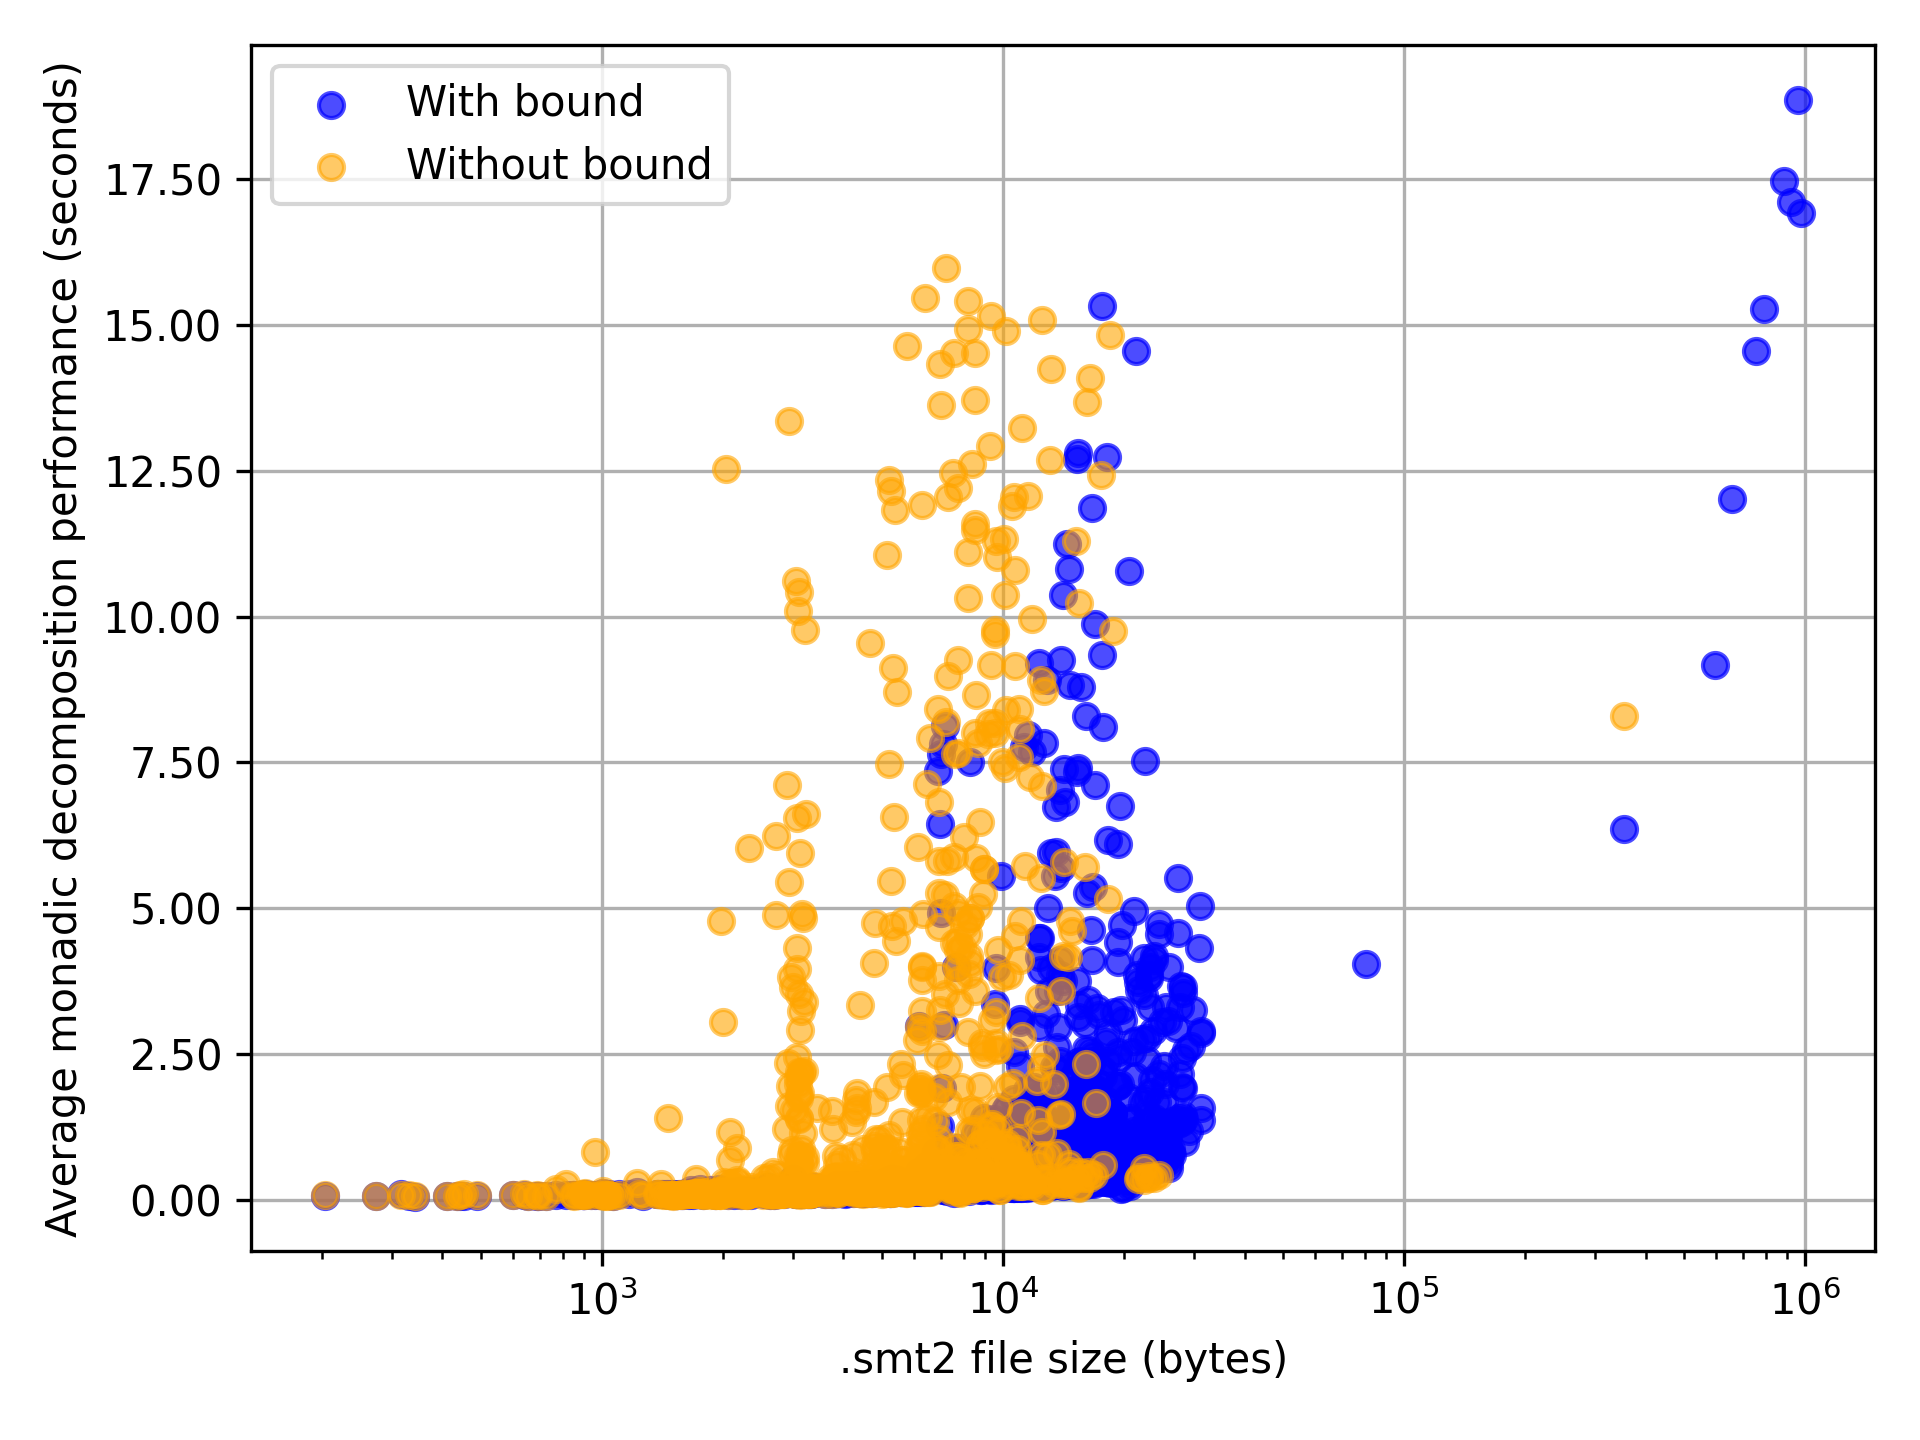
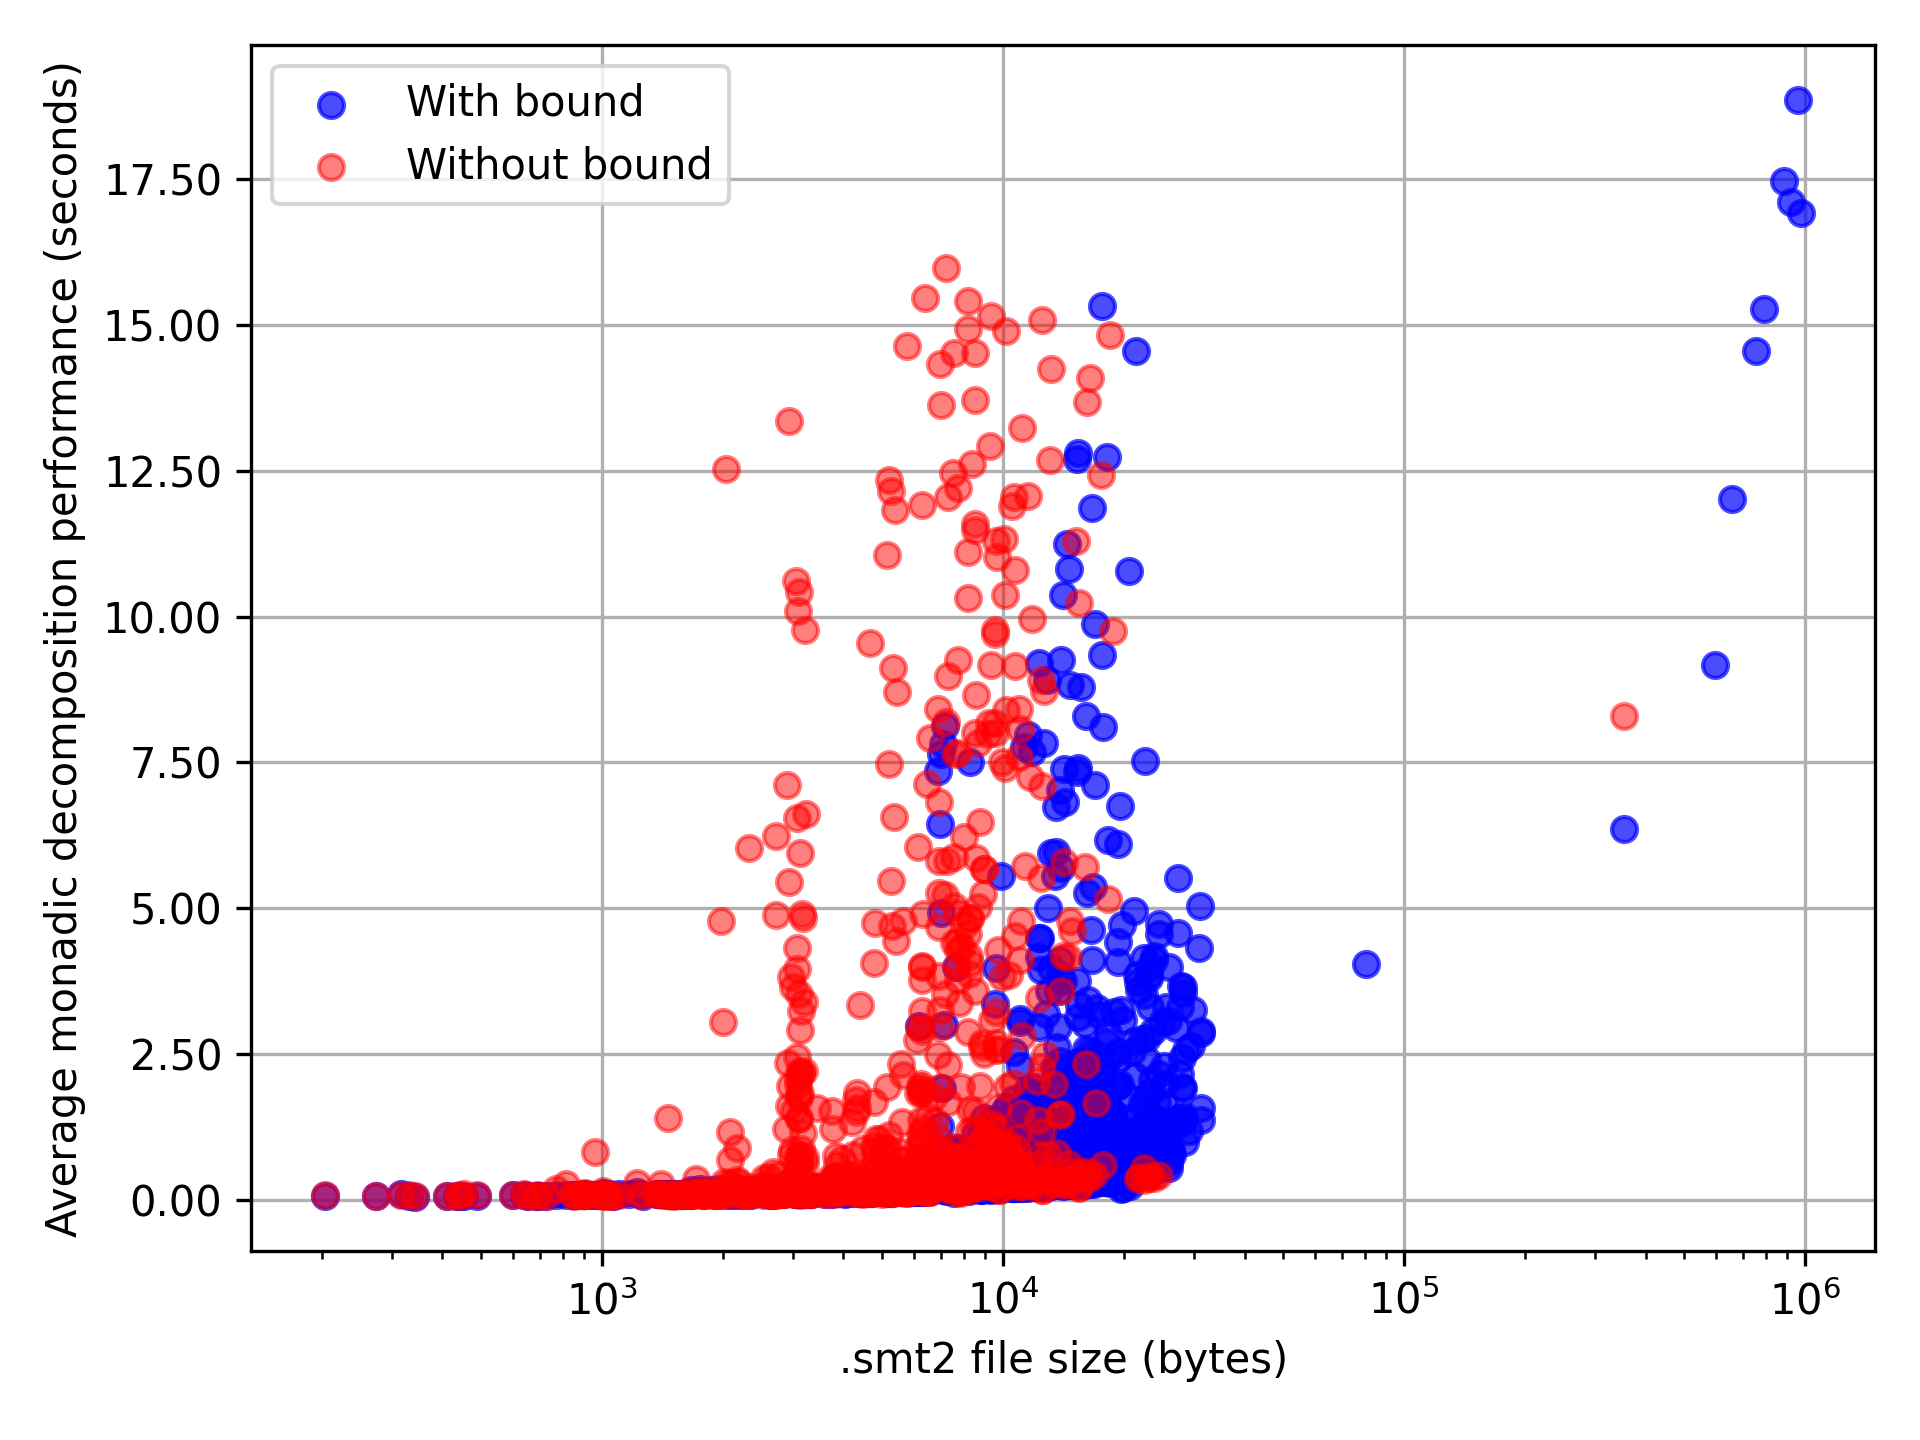
Red color looks better

diff --git a/src/benchmark_plot.py b/src/benchmark_plot.py
@@ -141,7 +141,7 @@ def benchmark_plot(iter_number: int):
                 y_wb = np.array(y_wb, dtype=float)
 
                 with_bound = ax.scatter(x, y, alpha=.7, color="blue", zorder=3)
-                without_bound = ax.scatter(x_wb, y_wb, alpha=.6, color="orange", zorder=4)
+                without_bound = ax.scatter(x_wb, y_wb, alpha=.5, color="red", zorder=4)
 
                 ax.legend(
                     (with_bound, without_bound),
